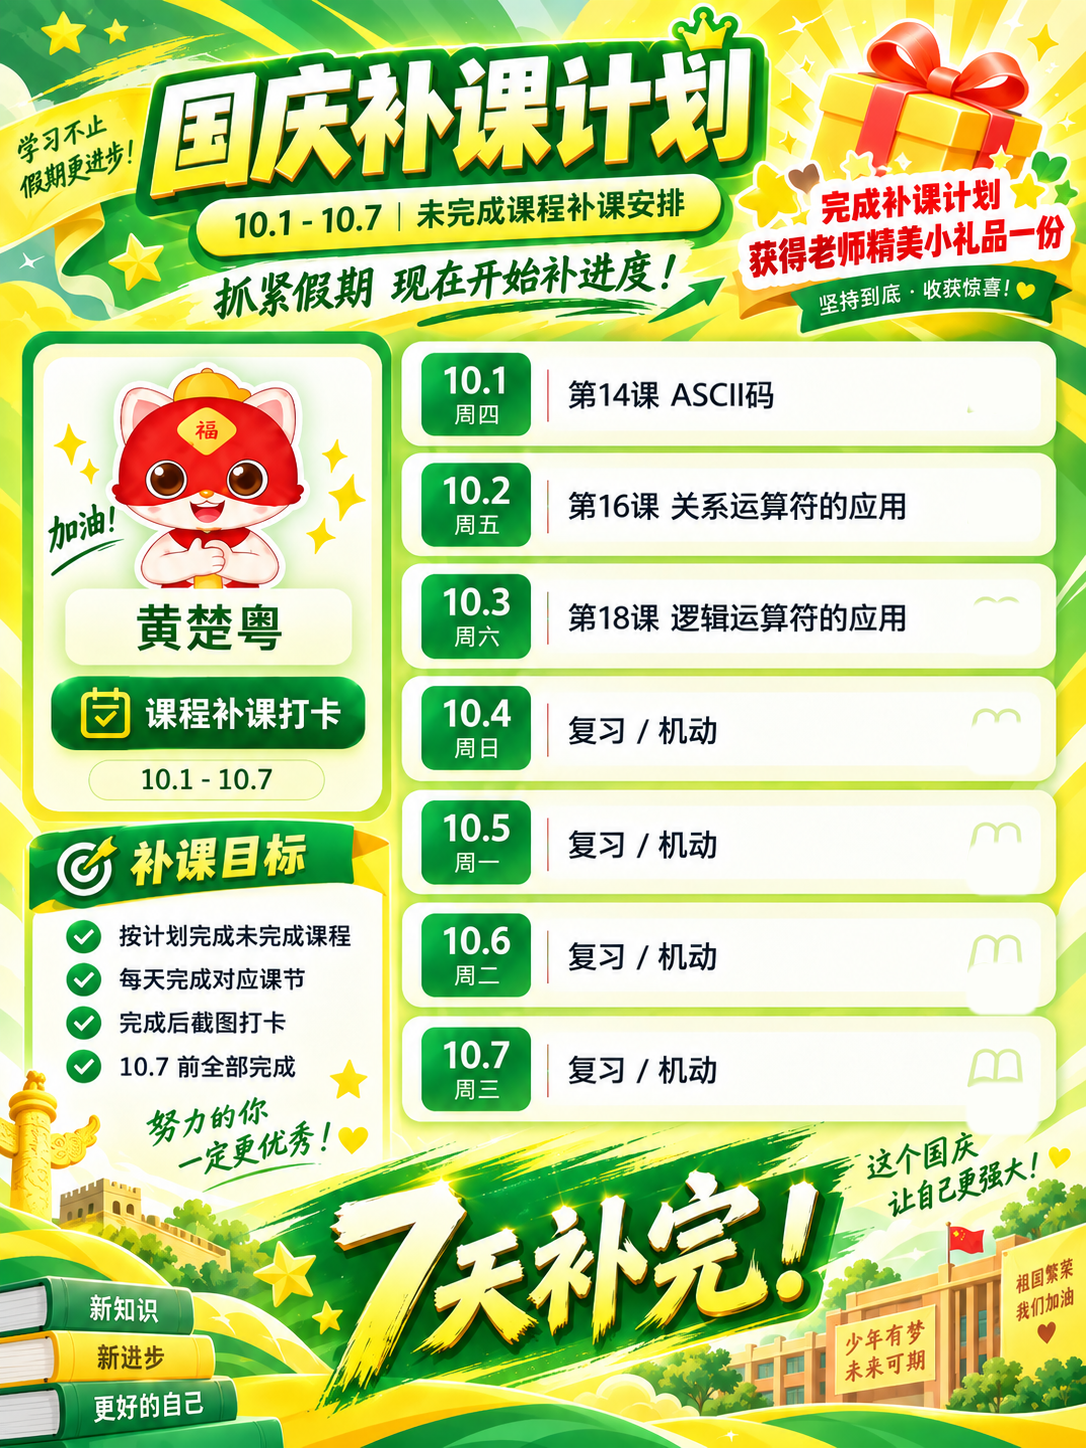
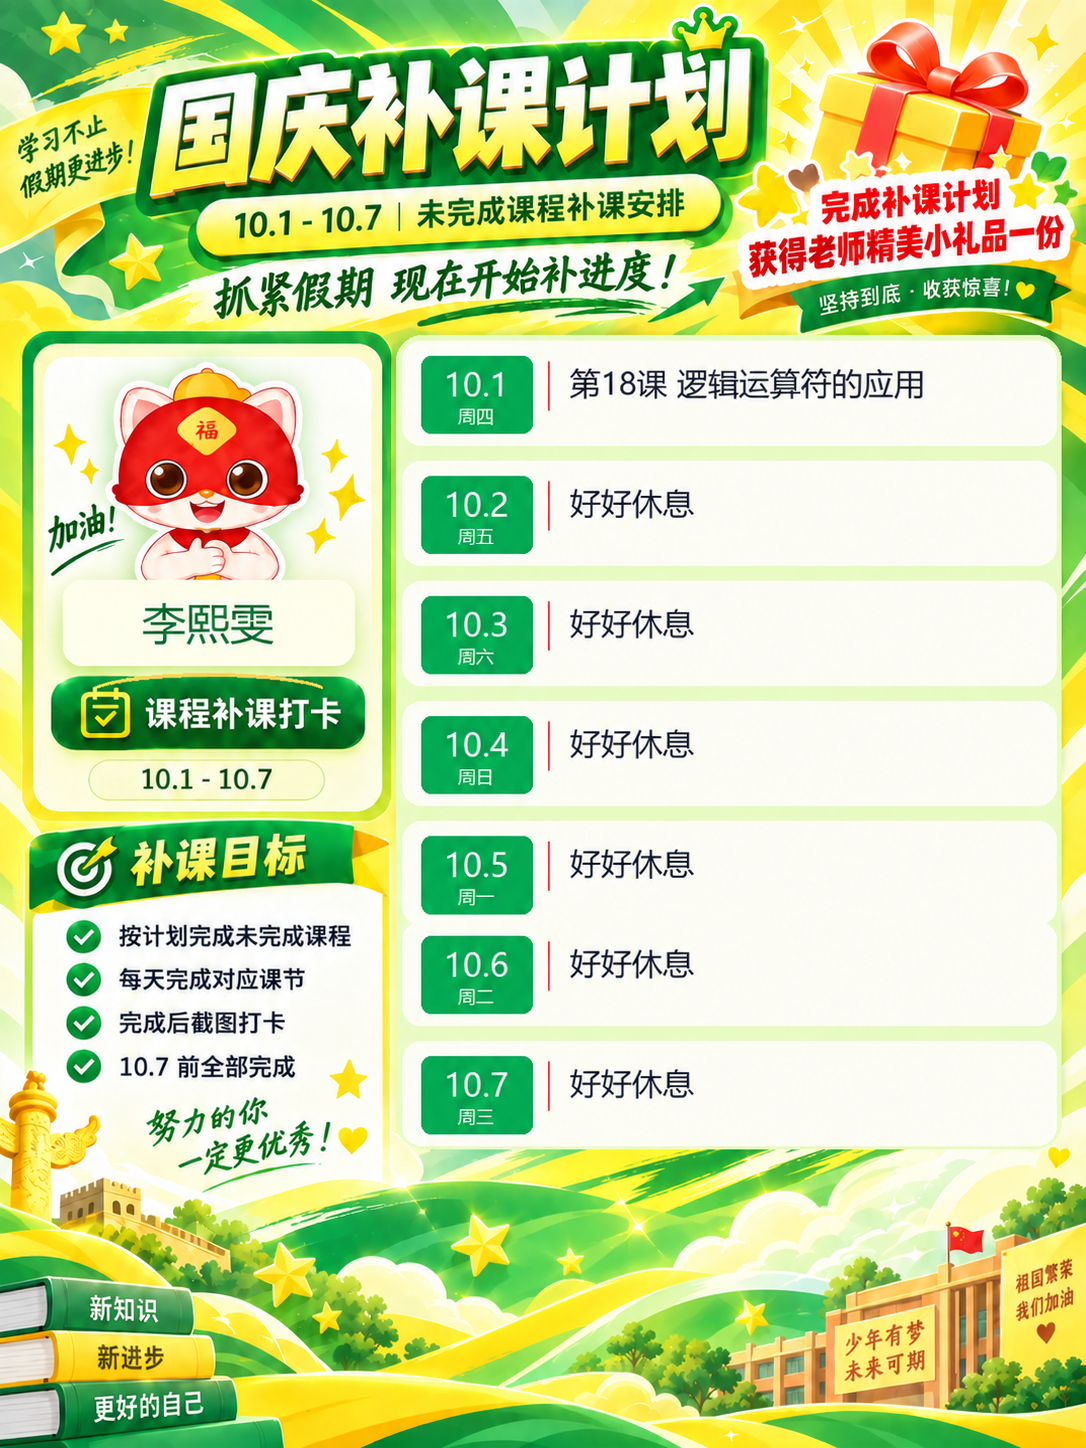
Update National Day makeup template artwork

diff --git a/scripts/generate_national_day_makeup_plan.py b/scripts/generate_national_day_makeup_plan.py
@@ -45,9 +45,6 @@ def render_card(template: Path, name: str, lessons: list[str], out: Path) -> Pat
     row_fill = (253, 253, 244)
     gold = (255, 210, 97)
     black = (15, 23, 42)
-    red = (232, 78, 85)
-    panel_fill = (233, 252, 197)
-    badge_green = (0, 173, 83)
 
     def sc_rect(rect):
         x1, y1, x2, y2 = rect
@@ -61,36 +58,22 @@ def render_card(template: Path, name: str, lessons: list[str], out: Path) -> Pat
     draw.text((round((208 * sx) - name_w / 2), round((620 * sy) - name_h / 2)), name, font=name_font, fill=dark_green)
     draw.arc(sc_rect((88, 673, 330, 714)), 200, 340, fill=gold, width=max(3, round(4 * sx)))
 
-    row_slots = [
-        (402, 341, 1056, 445, 421, 356, 532, 433, 570, 363, 958, 408, "10.1", "周四"),
-        (402, 461, 1056, 565, 421, 476, 532, 553, 570, 483, 958, 528, "10.2", "周五"),
-        (402, 581, 1056, 685, 421, 596, 532, 673, 570, 603, 958, 648, "10.3", "周六"),
-        (402, 701, 1056, 805, 421, 716, 532, 793, 570, 723, 958, 768, "10.4", "周日"),
-        (402, 821, 1056, 925, 421, 836, 532, 913, 570, 843, 958, 888, "10.5", "周一"),
-        (402, 921, 1056, 1025, 421, 936, 532, 1013, 570, 943, 958, 988, "10.6", "周二"),
-        (402, 1041, 1056, 1145, 421, 1056, 532, 1133, 570, 1063, 958, 1108, "10.7", "周三"),
+    lesson_slots = [
+        (570, 363, 965, 408),
+        (570, 483, 965, 528),
+        (570, 603, 965, 648),
+        (570, 723, 965, 768),
+        (570, 843, 965, 888),
+        (570, 943, 965, 988),
+        (570, 1063, 965, 1108),
     ]
     visible_lessons = [(item.strip() or "好好休息") for item in lessons]
-    if len(visible_lessons) < len(row_slots):
-        visible_lessons.extend(["好好休息"] * (len(row_slots) - len(visible_lessons)))
-    visible_count = min(len(visible_lessons), len(row_slots))
-    draw.rounded_rectangle(sc_rect((396, 335, 1061, 1148)), radius=round(26 * sx), fill=panel_fill)
-    date_font = font(round(18 * sx), True)
-    date_num_font = font(round(32 * sx), True)
-    for idx, slot in enumerate(row_slots[:visible_count]):
-        row_rect = slot[:4]
-        badge_rect = slot[4:8]
-        rect = slot[8:12]
-        date_text = slot[12]
-        weekday_text = slot[13]
+    if len(visible_lessons) < len(lesson_slots):
+        visible_lessons.extend(["好好休息"] * (len(lesson_slots) - len(visible_lessons)))
+    for idx, rect in enumerate(lesson_slots):
         text = visible_lessons[idx]
-        draw.rounded_rectangle(sc_rect(row_rect), radius=round(18 * sx), fill=row_fill)
-        draw.rounded_rectangle(sc_rect(badge_rect), radius=round(10 * sx), fill=badge_green)
-        date_w = draw.textbbox((0, 0), date_text, font=date_num_font)[2]
-        week_w = draw.textbbox((0, 0), weekday_text, font=date_font)[2]
-        draw.text((round(((badge_rect[0] + badge_rect[2]) / 2) * sx - date_w / 2), round((badge_rect[1] + 8) * sy)), date_text, font=date_num_font, fill="white")
-        draw.text((round(((badge_rect[0] + badge_rect[2]) / 2) * sx - week_w / 2), round((badge_rect[1] + 48) * sy)), weekday_text, font=date_font, fill="white")
-        draw.line((round(548 * sx), round((rect[1] - 2) * sy), round(548 * sx), round((rect[3] + 2) * sy)), fill=red, width=max(2, round(2 * sx)))
+        text_cover = sc_rect((rect[0] - 8, rect[1] - 20, 1028, rect[3] + 18))
+        draw.rounded_rectangle(text_cover, radius=round(8 * sx), fill=row_fill)
         parts = [part.strip() for part in text.split("、") if part.strip()]
         if len(parts) > 1:
             line_font = fit_font(draw, max(parts, key=len), round(435 * sx), round(22 * sx), round(17 * sx))
